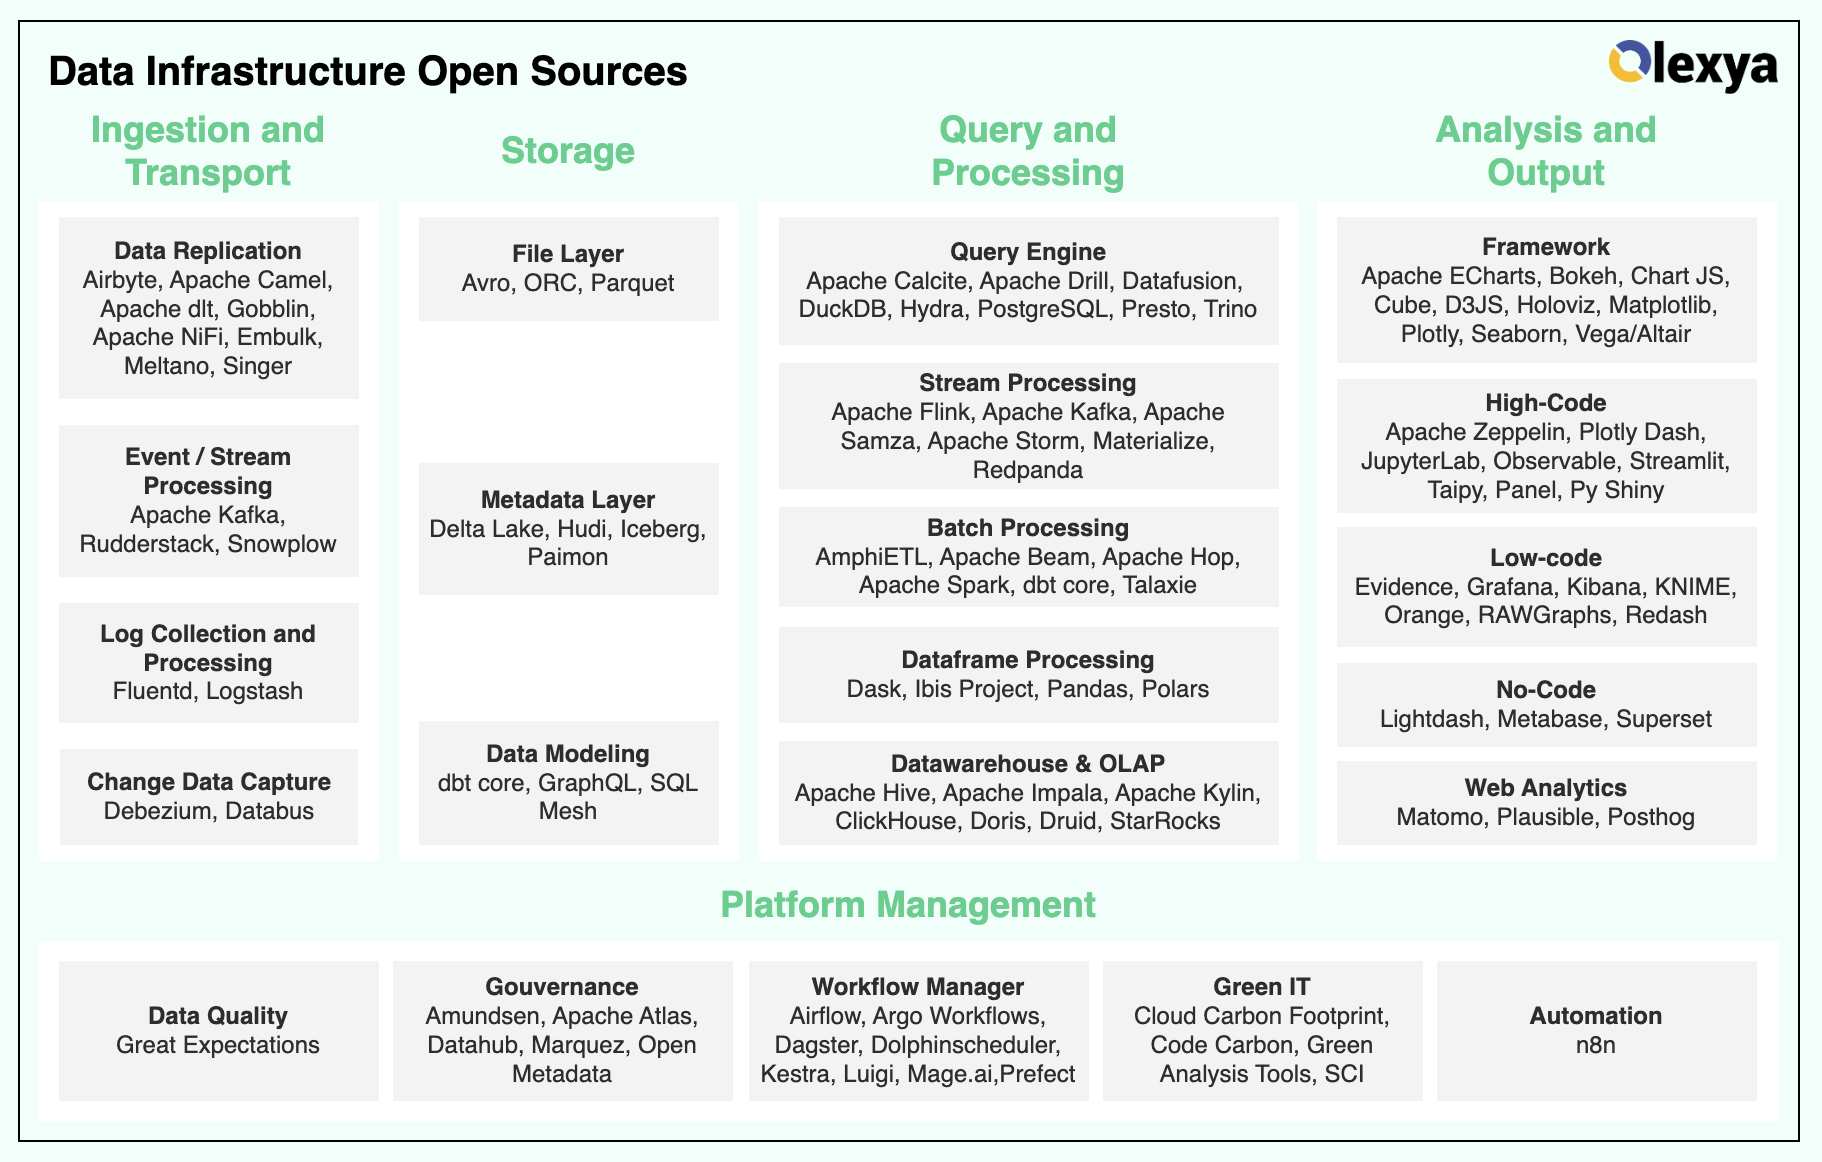
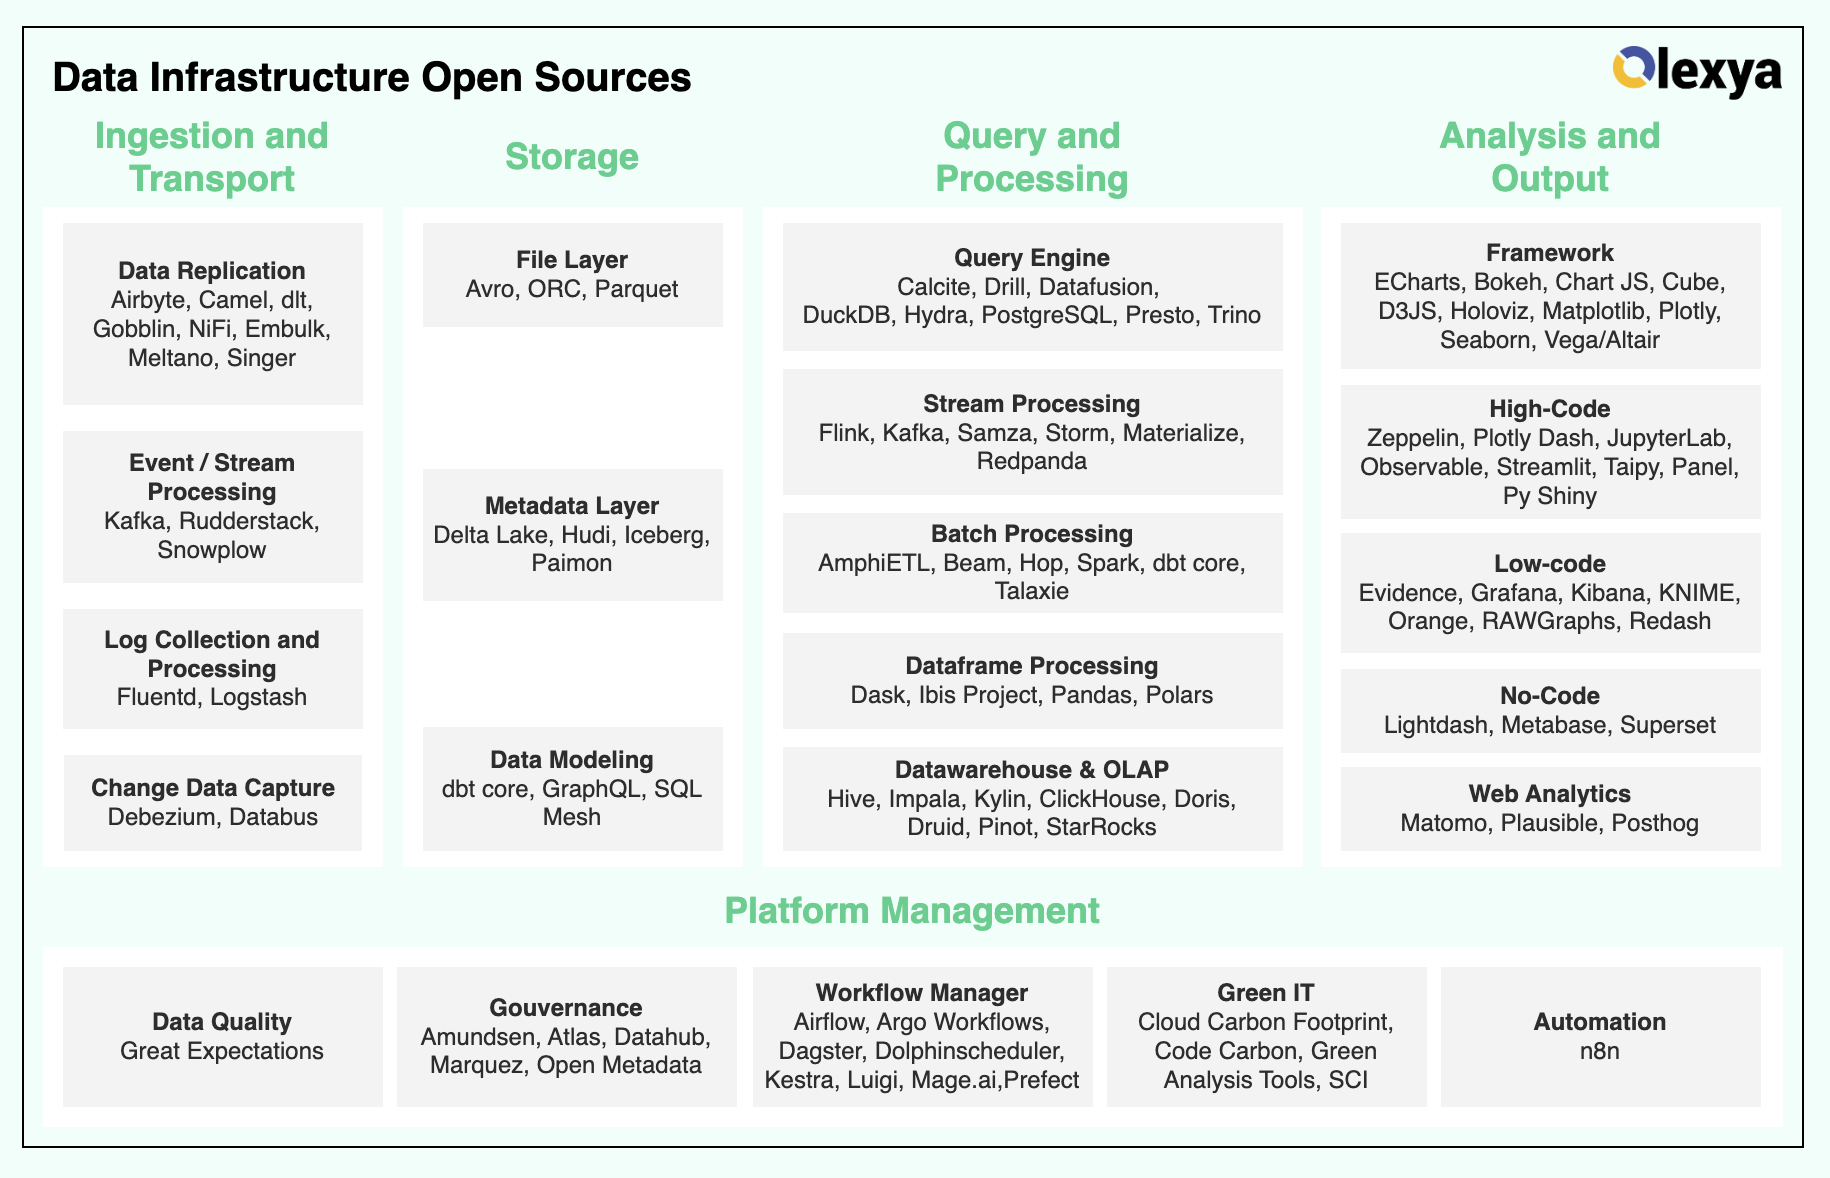
pinot

diff --git a/03.query_and_processing.md b/03.query_and_processing.md
@@ -1,3 +1,5 @@
+[Home](README.md)
+
 # Query and Processing Tools
 
 Query and processing tools are essential components of any data analytics infrastructure. They enable organizations to extract insights from large volumes of data, perform complex computations, and support decision-making processes. These tools can be broadly categorized into five main areas: query engines, stream processing, batch processing, dataframe processing, and datawarehouse & OLAP.
@@ -66,6 +68,7 @@ Here is a summary table of the main query and processing tools we have identifie
 | ClickHouse | Datawarehouse & OLAP | 02/06/2016 | 37507 | 6897 | 295 | 04/11/2024 | 07/11/2024 | Yes | https://github.com/ClickHouse/ClickHouse |
 | Doris | Datawarehouse & OLAP | 10/08/2017 | 12650 | 3263 | 392 | 13/10/2024 | 07/11/2024 | Yes | https://github.com/apache/doris |
 | Druid | Datawarehouse & OLAP | 23/10/2012 | 13497 | 3697 | 358 | 22/10/2024 | 07/11/2024 | Yes | https://github.com/apache/druid |
+| Pinot | Datawarehouse & OLAP | 23/10/2012 | 13497 | 3697 | 358 | 22/10/2024 | 07/11/2024 | Yes | https://github.com/apache/pinot |
 | StarRocks | Datawarehouse & OLAP | 04/09/2021 | 8915 | 1791 | 398 | 24/10/2024 | 07/11/2024 | Yes | https://github.com/StarRocks/starrocks |
 
 *Criteria: >40 contributors, >500 stars, and recent releases/commit
